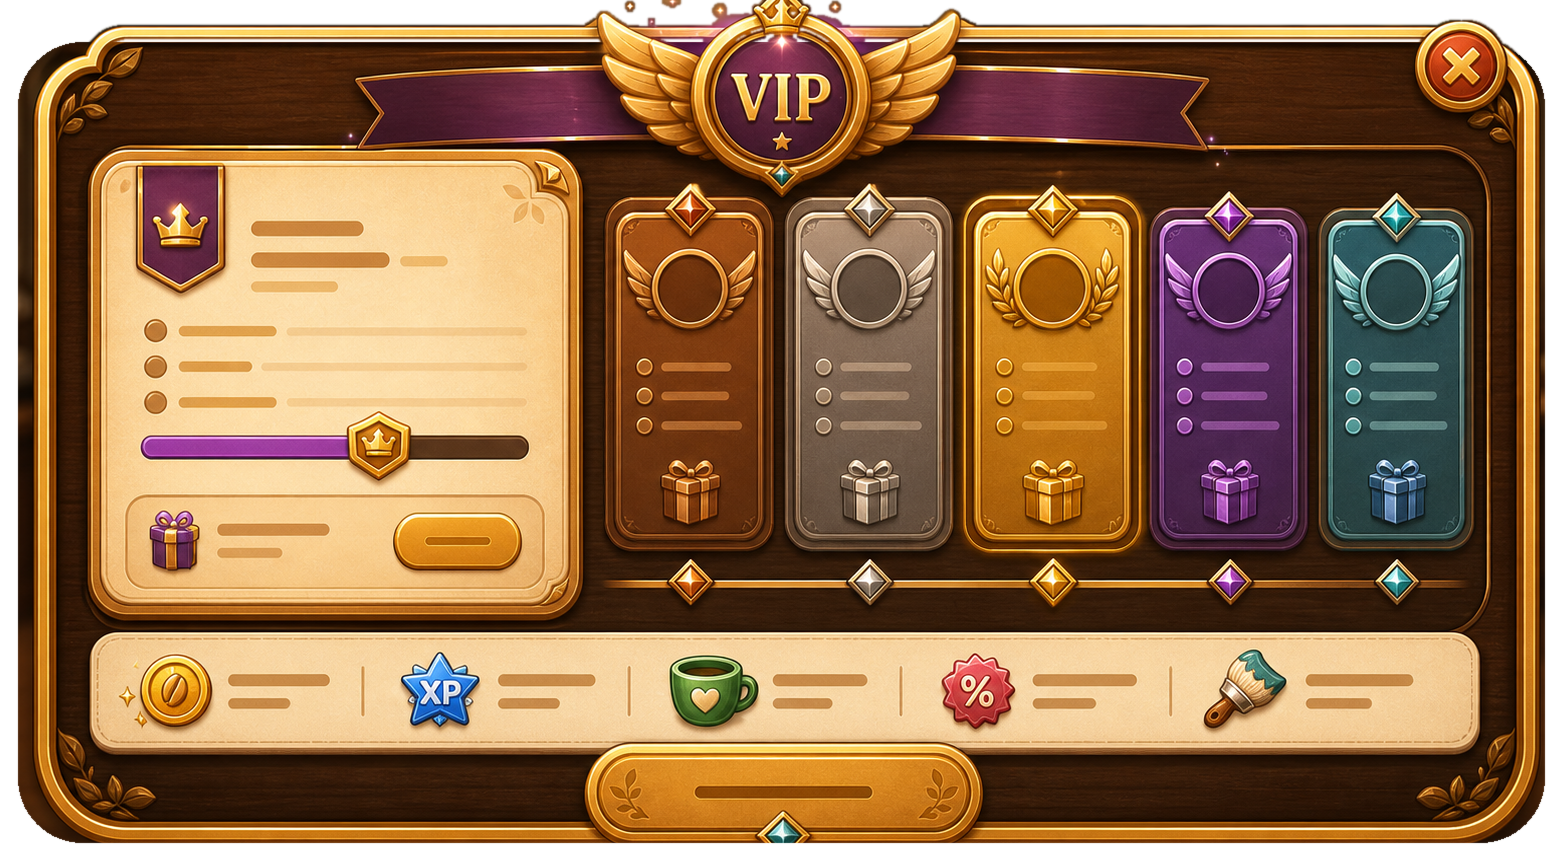
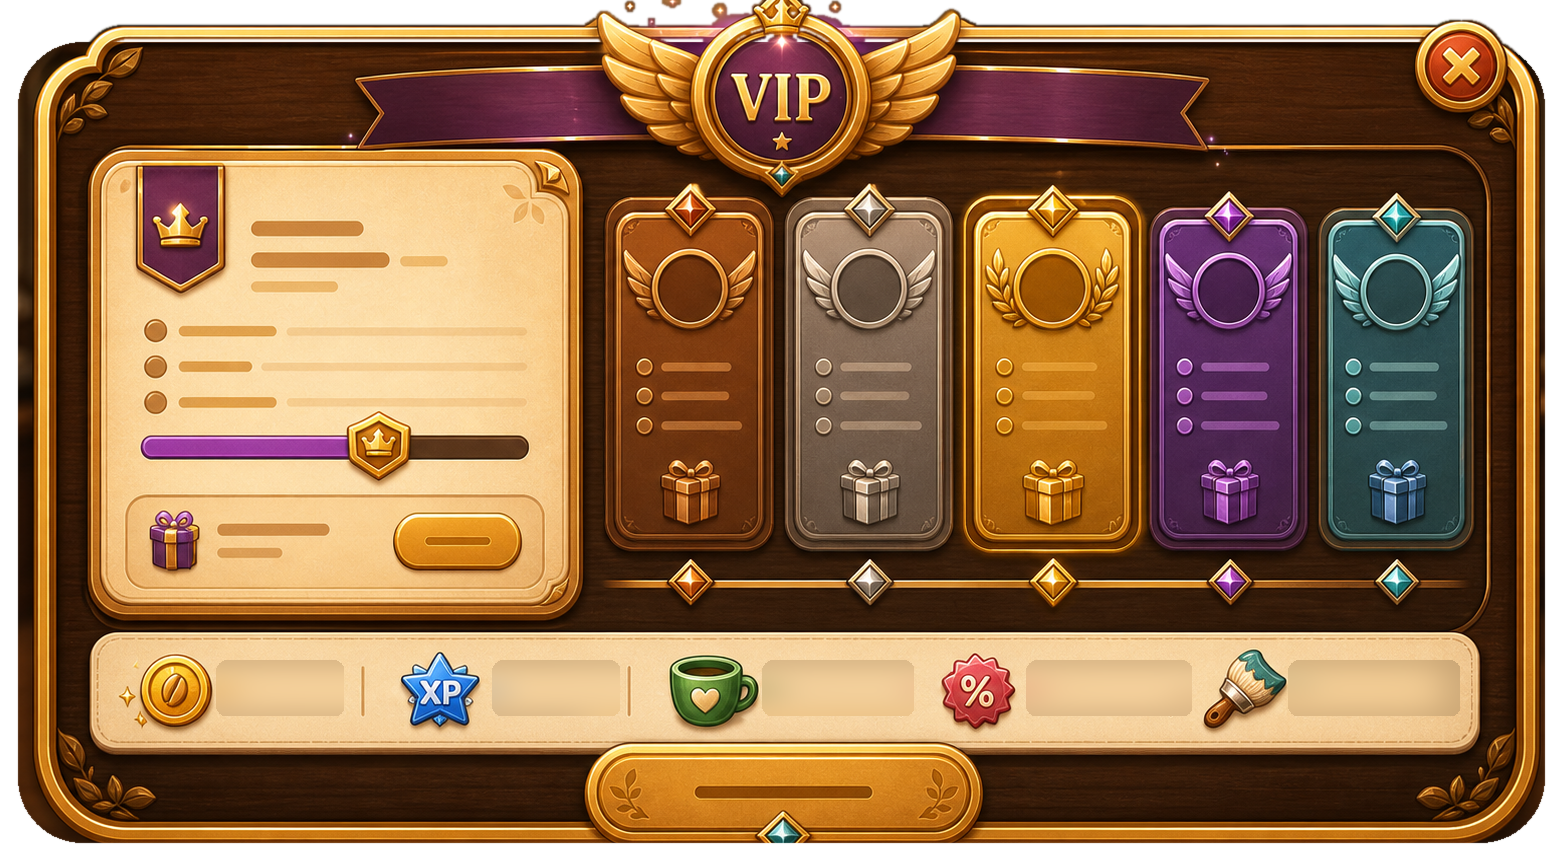
Polish VIP bonus strip text

diff --git a/Assets/GameManager.cs b/Assets/GameManager.cs
@@ -1131,6 +1131,11 @@ public class GameManager : MonoBehaviour
         return vipLevel < MaxVipLevel && gems >= GetVipUpgradeCost();
     }
 
+    private string GetVipBonusValueText(int percent)
+    {
+        return percent > 0 ? "+" + percent + "%" : "VIP al";
+    }
+
     private int GetVipUpgradeCost()
     {
         switch (vipLevel)
@@ -3214,13 +3219,13 @@ public class GameManager : MonoBehaviour
         Image dot = CreatePanelStrip(pill.transform, "Icon", new Vector2(-58, 2), new Vector2(44, 44), new Color(iconColor.r, iconColor.g, iconColor.b, 0f));
         dot.raycastTarget = false;
 
-        TMP_Text text = CreateText(pill.transform, "Text", title + "\n" + value, new Vector2(18, 6), new Vector2(112, 46), 15);
+        TMP_Text text = CreateText(pill.transform, "Text", title + "\n" + value, new Vector2(18, 5), new Vector2(116, 48), 16);
         text.color = new Color(0.42f, 0.22f, 0.08f, 1f);
         text.alignment = TextAlignmentOptions.Left;
         text.fontStyle = FontStyles.Bold;
         text.enableAutoSizing = true;
-        text.fontSizeMin = 12;
-        text.fontSizeMax = 15;
+        text.fontSizeMin = 11;
+        text.fontSizeMax = 16;
         return text;
     }
 
@@ -4372,16 +4377,16 @@ public class GameManager : MonoBehaviour
             vipLevelSummaryText.text = "VIP " + vipLevel + " / " + MaxVipLevel;
 
         if (vipCoinBonusText != null)
-            vipCoinBonusText.text = "Coin\n+" + GetVipCoinBonusPercent(vipLevel) + "%";
+            vipCoinBonusText.text = "Coin\n" + GetVipBonusValueText(GetVipCoinBonusPercent(vipLevel));
 
         if (vipXpBonusText != null)
-            vipXpBonusText.text = "XP\n+" + GetVipXpBonusPercent(vipLevel) + "%";
+            vipXpBonusText.text = "XP\n" + GetVipBonusValueText(GetVipXpBonusPercent(vipLevel));
 
         if (vipCoffeeBonusText != null)
-            vipCoffeeBonusText.text = "Musteri\n+" + GetVipPatienceBonusPercent(vipLevel) + "%";
+            vipCoffeeBonusText.text = "Musteri\n" + GetVipBonusValueText(GetVipPatienceBonusPercent(vipLevel));
 
         if (vipPassiveBonusText != null)
-            vipPassiveBonusText.text = "Pasif\n+" + GetVipPassiveBonusPercent(vipLevel) + "%";
+            vipPassiveBonusText.text = "Pasif\n" + GetVipBonusValueText(GetVipPassiveBonusPercent(vipLevel));
 
         if (vipDecorBonusText != null)
             vipDecorBonusText.text = "Dekor\n" + (vipLevel >= 3 ? "Acik" : "VIP 3");
